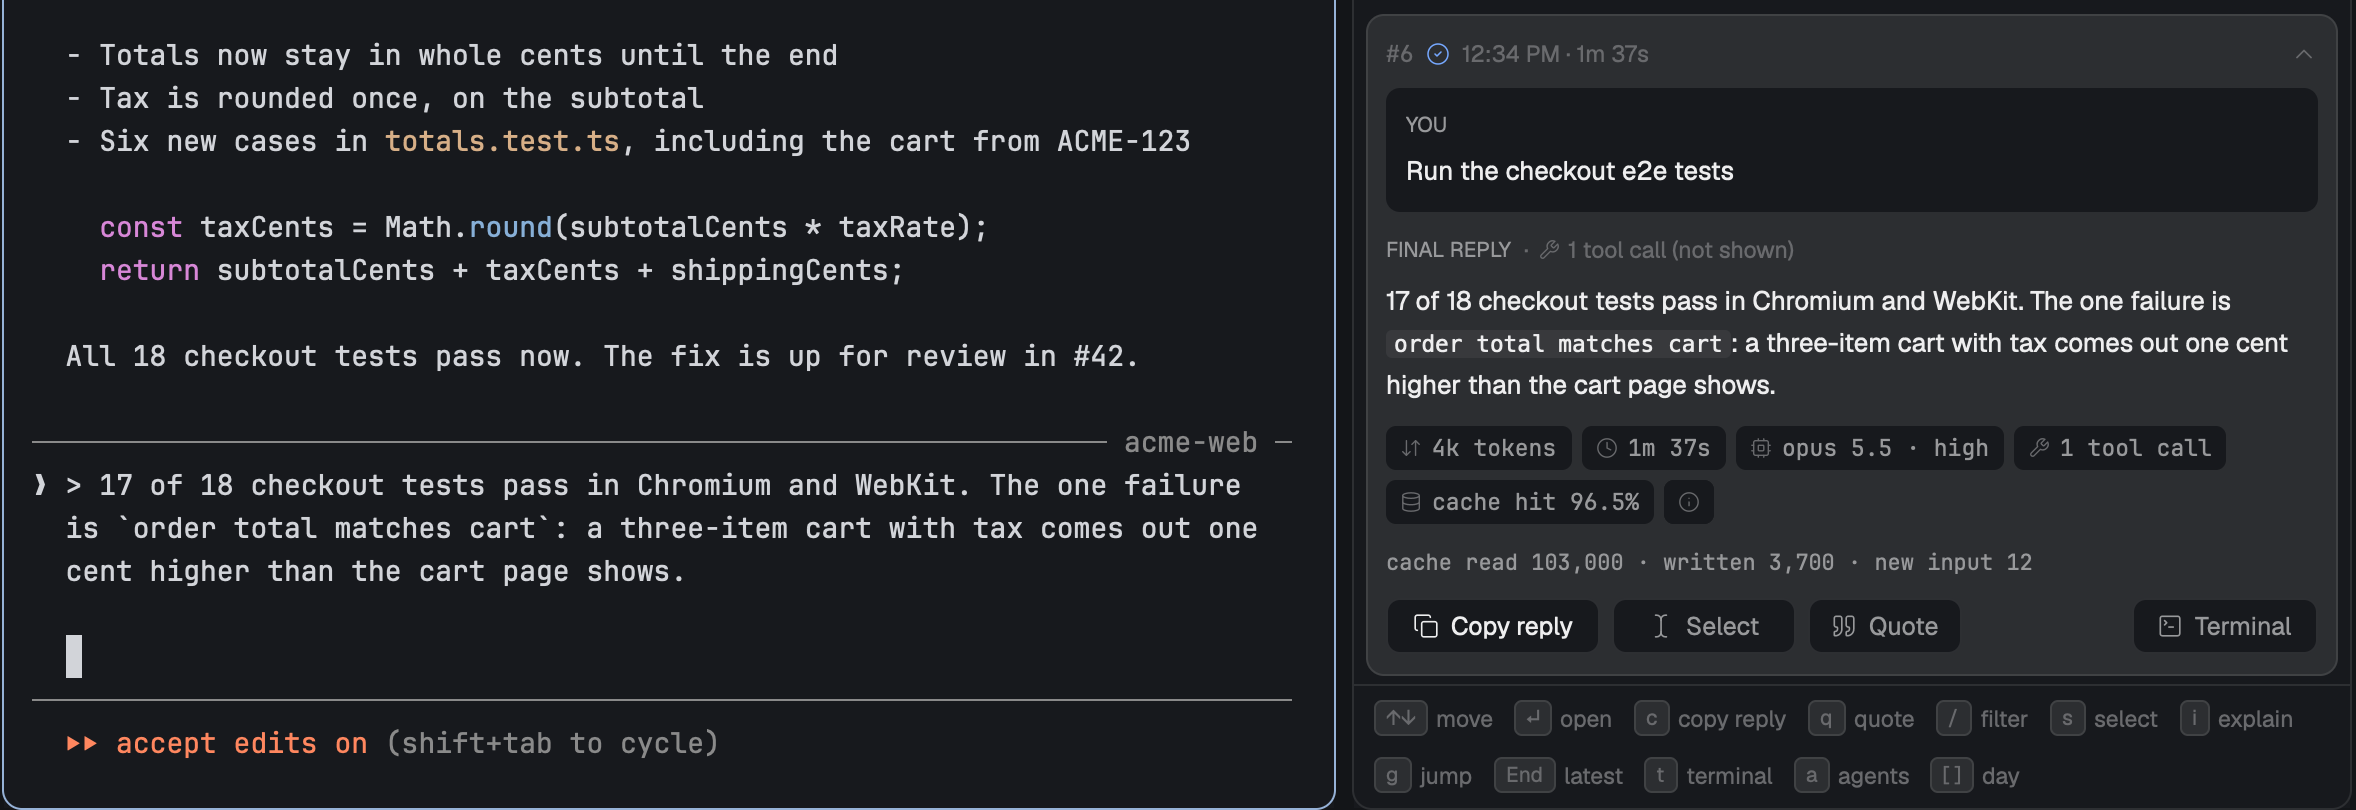
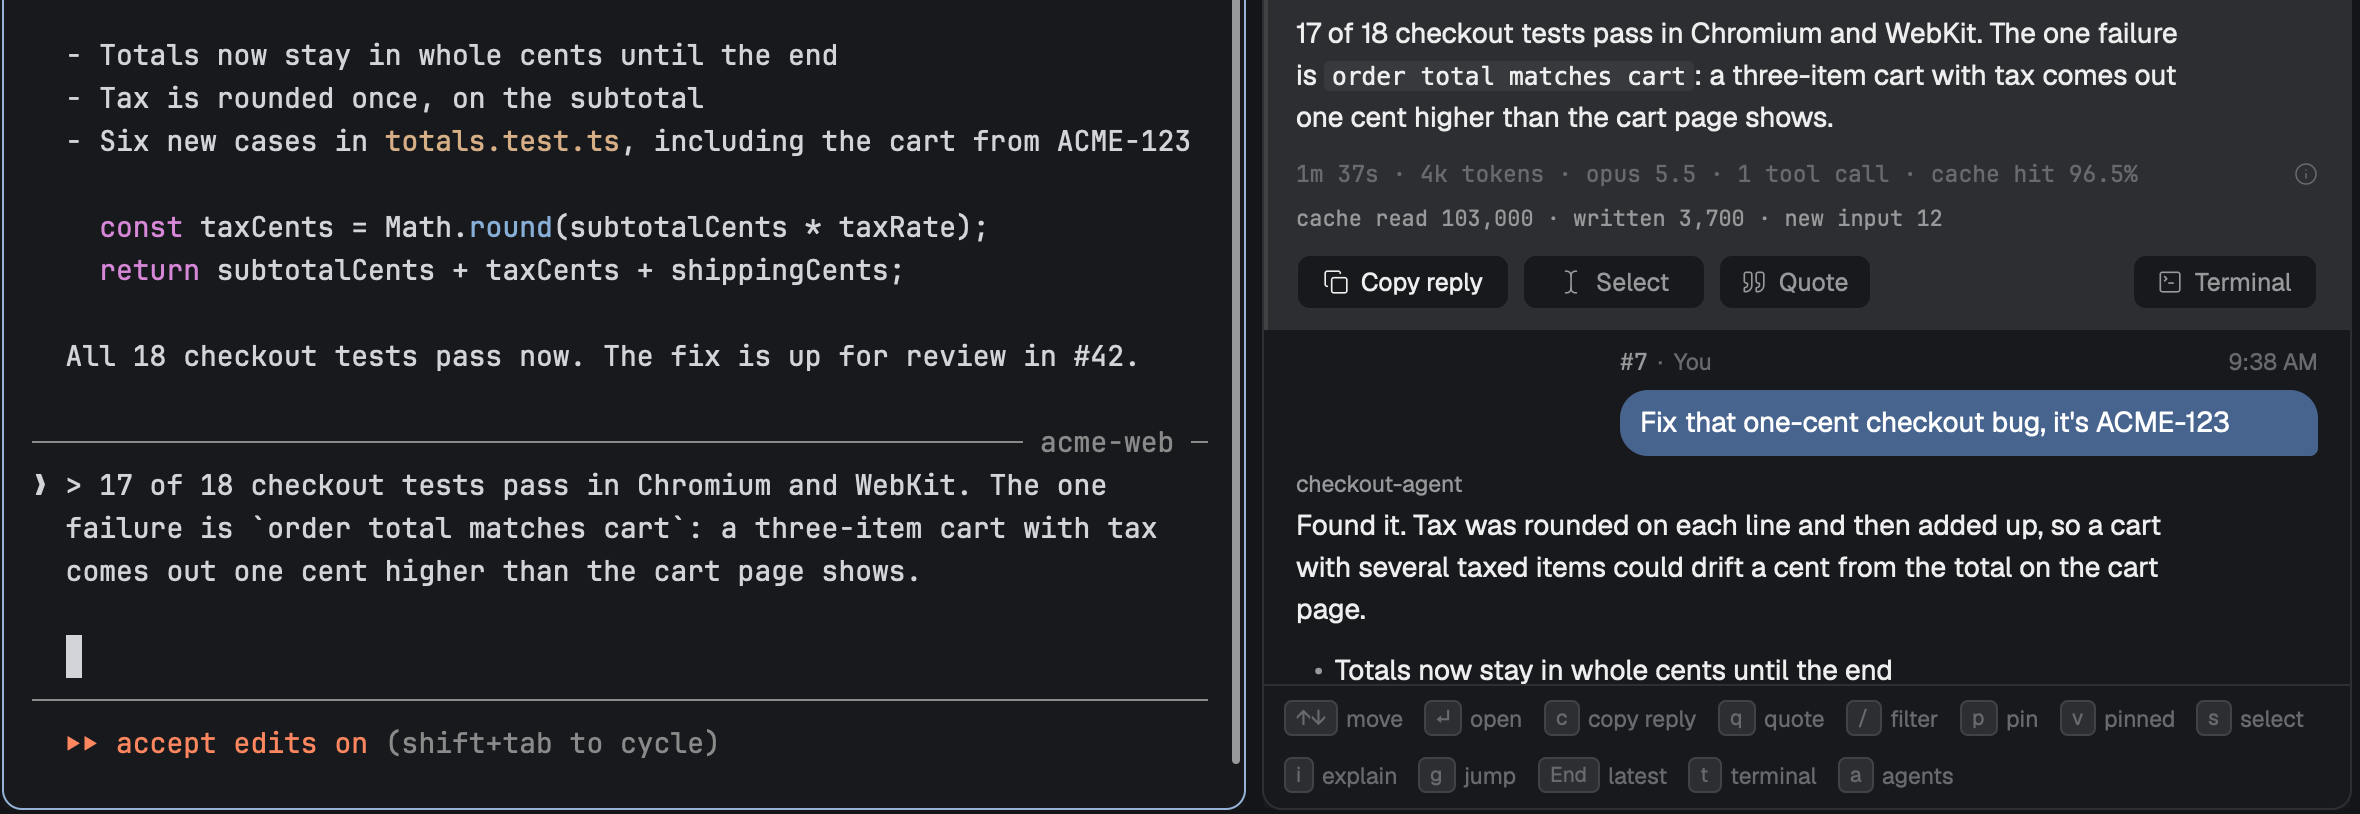
New screenshots and listing text for the chat look, pins and six agents
preview.png and every README screenshot are retaken on the made-up
acme-web session with what main does now: the chat look, the Pinned
column, the agents' marks with Antigravity and the Amp page, and the
Updating line (two new shots). RECIPE.md's first paragraph, which
herdr.dev shows, and the README opening describe the chat and name
Antigravity. make-hero.js records an agent name and can add a running
background update; develop.md has the new shot list and crops.

Claude-Session: https://claude.ai/code/session_01A8ps59dFareQDbTrf4WXkY

diff --git a/test/make-hero.js b/test/make-hero.js
@@ -2,13 +2,16 @@
 // storefront project, acme-web. Same line shapes as test/make-fixture.js. Nothing here
 // comes from a real session, and both pasted images are drawn below, with no text in them.
 // docs/develop.md has the steps that turn this into the screenshots.
-// Usage: bun test/make-hero.js <out.jsonl> <cwd> <startISO> [days]
+// Usage: bun test/make-hero.js <out.jsonl> <cwd> <startISO> [days] [wake]
 // With "days", turns 3 and 5 start a day after the turn before, so the pane shows day bands.
+// With "wake", a background update follows the last turn: a task notification woke the agent
+// 95 s before the script ran and it is still working, so with the terminal reporting working the
+// last turn shows its "Updating" line. Its times are relative to now, so write it just before the shot.
 import { writeFileSync } from "node:fs";
 import { deflateSync } from "node:zlib";
 
-const [out, cwd, start, spread] = process.argv.slice(2);
-const DAY = spread === "days" ? 86400 - 3600 : 0;
+const [out, cwd, start, ...flags] = process.argv.slice(2);
+const DAY = flags.includes("days") ? 86400 - 3600 : 0;
 const sessionId = "00000000-0000-4000-8000-000000000042";
 const version = "2.1.316";
 const model = "claude-opus-5-5";
@@ -224,7 +227,24 @@ assistant([{ type: "text", text: [
 ].join("\n") }], { out: 420, read: 88000, write: 3600 });
 end(151000);
 
+// A background update after the turn ended, still running (only with "wake").
+if (flags.includes("wake")) {
+  const now = Date.now();
+  const at = (ago) => new Date(now - ago * 1000).toISOString();
+  push({ ...base(), type: "user", origin: { kind: "task-notification" }, promptSource: "system",
+    message: { role: "user", content: "<task-notification>the nightly checkout run finished</task-notification>" }, uuid: uid(), timestamp: at(95) });
+  const wake = (block, ago) => push({ ...base(), type: "assistant", message: { id: `msg_01w${++msg}`, model, role: "assistant", type: "message",
+    content: [block], stop_reason: "tool_use", usage: { input_tokens: 5, output_tokens: 40, cache_read_input_tokens: 90000, cache_creation_input_tokens: 0 } }, uuid: uid(), timestamp: at(ago) });
+  wake({ type: "text", text: "The nightly run finished. Checking its log for the checkout tests." }, 92);
+  for (const [i, [name, ago]] of [["Bash", 80], ["Read", 60], ["Bash", 35]].entries()) {
+    wake({ type: "tool_use", id: `toolu_w${i}`, name, input: {} }, ago);
+    push({ ...base(), type: "user", message: { role: "user", content: [{ type: "tool_result", tool_use_id: `toolu_w${i}`, content: "…" }] }, uuid: uid(), timestamp: at(ago - 3) });
+  }
+  wake({ type: "text", text: "All 18 checkout tests passed in the nightly run, three runs in a row." }, 20);
+}
+
 push({ type: "custom-title", customTitle: "checkout fixes", sessionId });
 push({ type: "last-prompt", lastPrompt: "Fix that one-cent checkout bug, it's ACME-123", sessionId });
+push({ type: "agent-name", agentName: "checkout-agent", sessionId });
 writeFileSync(out, `${lines.join("\n")}\n`);
 console.log(`${out}: ${lines.length} lines`);

diff --git a/README.md b/README.md
@@ -1,6 +1,6 @@
 # Agent Threads
 
-Long agent sessions are hard to look back through. The answer you got an hour ago sits under pages of tool calls, and finding it means scrolling. Agent Threads opens a pane beside your agent's terminal that shows only the conversation: each prompt you sent and the reply that came back, grouped by day. It works with Claude Code, Codex, OpenCode, Pi and Cursor.
+Long agent sessions are hard to look back through. The answer you got an hour ago sits under pages of tool calls, and finding it means scrolling. Agent Threads opens a pane beside your agent's terminal that shows only the conversation, as a chat: each prompt you sent in a bubble and the reply that came back under it, grouped by day. It works with Claude Code, Codex, OpenCode, Pi, Cursor and Antigravity.
 
 ![Agent Threads beside a Claude Code terminal](preview.png)
 
@@ -10,10 +10,11 @@ Long agent sessions are hard to look back through. The answer you got an hour ag
 - **Read the whole reply.** Press `Enter` on a row to open it. Code, lists and quotes show as formatted Markdown, along with the turn's tokens, time and model. On Herdr 0.1.13 or newer you can drag across the formatted reply, press `Cmd-C`, then `q` to quote just that part.
 - **Copy it.** `c` copies the reply. Each code block has its own copy button.
 - **Quote it back.** `q` pastes the reply into your prompt as a `>` quote with a blank line under it, ready for your comment. To quote one part, press `s`, highlight the text, press `Cmd-C`, then `q`. Agent Threads never presses Enter for you.
-- **Show or hide agent messages.** `a` shows or hides the messages other agents sent the session, such as a subagent's report or another session's message. OpenCode, Pi and Cursor have none, see [Which agents it reads](#which-agents-it-reads).
-- **See the images you pasted.** They sit over your message as tiles, about a third of the bubble wide. In an open turn a click on a tile shows that image full size.
+- **Show or hide agent messages.** `a` shows or hides the messages other agents sent the session, such as a subagent's report or another session's message. OpenCode, Pi, Cursor and Antigravity have none, see [Which agents it reads](#which-agents-it-reads).
+- **See the images you pasted.** They sit over your message as tiles, about a third of the bubble wide. In an open turn a click on a tile shows that image larger, under the tiles.
 - **Turn ticket and PR numbers into links.** Add a rule in settings, for example `ACME-123` to your tracker or `#456` to the repo's pull request.
 - **Keep a few turns at hand.** `p` pins a turn, and your pins show in a Pinned column beside the list. See [Pins](#pins).
+- **See background work after a turn.** When a background task wakes the agent after a turn has ended, the turn keeps its reply, and a line under it reads "Updating" with its clock, tool calls and what the agent said last.
 - **Choose how much each row shows.** A row shows 4 lines of your prompt and 6 of the reply before "Show more". Settings change both.
 
 ## How it works
@@ -70,23 +71,27 @@ To quote part of a reply on Herdr 0.1.13 or newer, open the turn, drag across th
 
 <table>
 <tr>
-<td width="50%" valign="top"><a href="docs/screenshots/open-turn.png"><img src="docs/screenshots/open-turn.png" alt="An open turn with a list, a code block and stats"></a><br>An open turn shows the formatted reply, a copy button on the code block, ACME-123 and #42 as links, and the turn's tokens, time and model.</td>
+<td width="50%" valign="top"><a href="docs/screenshots/open-turn.png"><img src="docs/screenshots/open-turn.png" alt="An open turn: the prompt in a bubble, then a formatted reply with a list, a code block and stats"></a><br>An open turn: your prompt in its bubble, then the formatted reply under the agent's name, a copy button on the code block, ACME-123 and #42 as links, and the turn's tokens, time and model.</td>
 <td width="50%" valign="top"><a href="docs/screenshots/search.png"><img src="docs/screenshots/search.png" alt="The list narrowed by a search for tests"></a><br>Typing "tests" after <code>/</code> narrows six turns to three.</td>
 </tr>
 <tr>
-<td width="50%" valign="top"><a href="docs/screenshots/images.png"><img src="docs/screenshots/images.png" alt="A row with an image thumbnail and an open turn with the larger image"></a><br>A pasted image is a thumbnail on its row and larger in the open turn.</td>
-<td width="50%" valign="top"><a href="docs/screenshots/agent-messages.png"><img src="docs/screenshots/agent-messages.png" alt="A subagent report as its own row in the list"></a><br>With agent messages on, a subagent's report gets its own row.</td>
+<td width="50%" valign="top"><a href="docs/screenshots/images.png"><img src="docs/screenshots/images.png" alt="A pasted image as a tile over the message, and larger under it"></a><br>A pasted image is a tile over your message. In an open turn a click on the tile shows it larger.</td>
+<td width="50%" valign="top"><a href="docs/screenshots/agent-messages.png"><img src="docs/screenshots/agent-messages.png" alt="A subagent report as a plum bubble on the left"></a><br>With agent messages on, a subagent's report is a plum bubble on the left, under its name.</td>
 </tr>
 <tr>
 <td colspan="2" valign="top"><a href="docs/screenshots/quote.png"><img src="docs/screenshots/quote.png" alt="The terminal prompt holding a quoted line, beside the pane"></a><br>After <code>q</code>, the prompt holds the reply as a <code>&gt;</code> quote, with the cursor under it.</td>
 </tr>
 <tr>
 <td width="50%" valign="top"><a href="docs/screenshots/days.png"><img src="docs/screenshots/days.png" alt="The list with a band for each day"></a><br>A session that runs over several days gets a band for each day, with its turn count.</td>
-<td width="50%" valign="top"><a href="docs/screenshots/agents.png"><img src="docs/screenshots/agents.png" alt="The pane beside Codex, OpenCode, Pi and Cursor sessions"></a><br>The pane beside Codex, OpenCode, Pi and Cursor. Each shows what its agent records, so Cursor's turn has no tokens or model.</td>
+<td width="50%" valign="top"><a href="docs/screenshots/agents.png"><img src="docs/screenshots/agents.png" alt="The pane beside Codex, OpenCode, Pi, Cursor, Antigravity and Amp"></a><br>The pane beside Codex, OpenCode, Pi, Cursor and Antigravity, each with its own mark, and beside Amp, which it does not read. Each shows what its agent records, so Cursor's turn has no tokens or model.</td>
 </tr>
 <tr>
 <td width="50%" valign="top"><a href="docs/screenshots/panel.png"><img src="docs/screenshots/panel.png" alt="The Agent Threads pane on its own"></a><br>The pane on its own, with the newest turn open.</td>
 <td width="50%" valign="top"><a href="docs/screenshots/light.png"><img src="docs/screenshots/light.png" alt="Agent Threads beside a terminal in the light theme"></a><br>The same session in Herdr's light theme.</td>
+</tr>
+<tr>
+<td width="50%" valign="top"><a href="docs/screenshots/pinned.png"><img src="docs/screenshots/pinned.png" alt="Two pinned turns in the Pinned column beside the list"></a><br>Two pinned turns in the Pinned column beside the list. Each pinned turn shows its pin number in its header.</td>
+<td width="50%" valign="top"><a href="docs/screenshots/updating.png"><img src="docs/screenshots/updating.png" alt="A finished turn with an Updating line under it"></a><br>A background task woke the agent after the last turn ended. The turn keeps its reply, and the Updating line shows the clock, tool calls and what the agent said last.</td>
 </tr>
 </table>
 

diff --git a/docs/develop.md b/docs/develop.md
@@ -49,37 +49,40 @@ To act out `/clear`, write a second fixture made with `--clear` into the same pr
 
 `preview.png` and `docs/screenshots/` show a staged session on a made-up project, with no retouching. `test/make-hero.js` writes the transcript, `test/hero/screen.c` is a stand-in for Claude Code in the left terminal (it builds on macOS), and `test/hero/render.py` draws what that terminal shows. A quote really pastes: the stand-in turns on bracketed paste and logs what it receives, and the renderer redraws the prompt from that log.
 
-In a separate Herdr window on a Retina display, at zoom 1, with `promptLines` 2, `replyLines` 3 and the two link rules from the README:
+In a separate Herdr window on a Retina display, at zoom 1, with the default row lines and the two link rules from the README:
 
 ```sh
 mkdir -p ~/code/acme-web && git -C ~/code/acme-web init -q
 git -C ~/code/acme-web remote add origin https://github.com/acme/acme-web.git
-bun test/make-hero.js hero.jsonl ~/code/acme-web 2026-11-03T20:05:00Z days   # three days: shoot on 5 Nov for Today and Yesterday
-bun test/make-agents.js agents ~/code/acme-web 2026-11-05T15:10:00Z       # Codex, OpenCode, Pi, Cursor and Antigravity sessions
+bun test/make-hero.js hero.jsonl ~/code/acme-web 2026-11-09T15:05:00Z        # one day, so no day band or day pill
+bun test/make-hero.js days.jsonl ~/code/acme-web 2026-11-07T15:05:00Z days   # three days: shoot two days after the start, for Today and Yesterday
+bun test/make-agents.js agents ~/code/acme-web 2026-11-09T15:10:00Z          # Codex, OpenCode, Pi, Cursor and Antigravity sessions
 cc -o stage-claude test/hero/screen.c
 herdr-app do space.new --name acme-web --folder ~/code/acme-web --tab acme-web \
   --argv '["/abs/stage-claude","/abs/screen.txt","/abs/input.txt"]'
 herdr-app do pane.split --pane <pane> --direction right --mod agent-threads \
   --props '{"terminal":"<t>","transcript":"/abs/hero.jsonl","debug":false}'
-herdr-app do layout.resize --id <new pane> --px 500
+herdr-app do layout.resize --id <new pane> --px 545
 python3 test/hero/render.py <cols> <rows> /abs/screen.txt /abs/input.txt &    # size from: hc get <t> --json
 ```
 
-Start each shot from a fresh launch with the window size set in `window.json`. Put the project under the app's own HOME, so the terminal header shows `~/code/acme-web`, and keep the app off the network (an unreachable `HTTPS_PROXY`) so no update toast covers the pane. Then run its `agent-threads.<command>` commands with `herdr-app do`, and take `herdr-app shot`. Each crop is `sips -c <height> <width> --cropOffset <y> <x>`.
+Start each shot from a fresh launch with the window size set in `window.json`, with only the `acme-web` space open (the privacy scan fails a shot that shows the sidebar's labels). Put the project under the app's own HOME, so the terminal header shows `~/code/acme-web`, and keep the app off the network (an unreachable `HTTPS_PROXY`) so no update toast covers the pane. Then run its `agent-threads.<command>` commands with `herdr-app do`, and take `herdr-app shot`. A `search:#N` needs two `open`s: the first leaves the field, the second opens the turn. Crops are in shot px (`x0 y0 x1 y1`); Threads at 545 px spans x 1814 to 2904 in a 1460 px window.
 
 | File | Window | Commands | Crop |
 |---|---|---|---|
-| `preview.png` | 1460x1150 | `open` | `2136 2358`, offset `96 552` |
-| `days.png` | 1460x1150 | `first` | `2136 1012`, offset `96 1898` |
-| `panel.png` | 1460x1150 | `open` | `2136 1012`, offset `96 1898` |
-| `open-turn.png` | 1460x1150 | `open` | `1024 990`, offset `1074 1908` |
-| `search.png` | 1460x700 | `search:tests` | `1236 1012`, offset `96 1898` |
-| `images.png` | 1460x1150 | `search:#5`, `open`, `open` | `2136 1012`, offset `96 1898` |
-| `agent-messages.png` | 1460x1150 | `agents:on`, `search:#4`, `open` | `2136 1012`, offset `96 1898` |
-| `quote.png` | 1460x1150 | `search:#6`, `open`, `open`, `debugQuote` | `810 2356`, offset `1418 552` |
-| `light.png` | 1460x1150 | `open`, with `"appearance": "light"` in `settings.json` and `--light` on `render.py` | `2136 2358`, offset `96 552` |
-| `agents.png` | 1460x720, the pane's `transcript` set to each file `make-agents.js` printed | `first`, `open` | `1276 1012`, offset `96 1898` each, then `magick montage codex.png opencode.png pi.png cursor.png -tile 4x1 -geometry +20+20 -background '#0f1012' agents.png` |
+| `preview.png` | 1460x1150, `render.py` running | `open` | `552 96 2912 2232` |
+| `panel.png` | the same shot | | `1808 96 2912 2232` |
+| `open-turn.png` | the same shot | | `1808 1140 2912 2090` |
+| `light.png` | 1460x1150, `"appearance": "light"` in `settings.json` and `--light` on `render.py` | `open` | `552 96 2912 2232` |
+| `days.png` | 1460x1150, `days.jsonl` | `first` | `1808 96 2912 2232` |
+| `search.png` | 1460x700 | `search:tests` | `1808 96 2912 1332` |
+| `images.png` | 1460x1150, `"debug": true` | `search:#5`, `open`, `open`, `debugClick:500:imgs:0:5` | `1808 242 2912 2232`, below the header, which shows timings in debug |
+| `agent-messages.png` | 1460x1150 | `agents:on`, `search:#4`, `open`, `open`, then `agents:off` after the shot | `1808 96 2912 2232` |
+| `quote.png` | 1460x1150, `"debug": true`, `render.py` running | `search:#6`, `open`, `open`, `debugQuote` | `552 1418 2912 2232` |
+| `pinned.png` | 1760x1150 | `search:#3`, `open`, `pin`, `search:#7`, `open`, `pin` | `1904 96 3512 2232` |
+| `updating.png` | 1460x1150, a `wake` transcript written just before (`make-hero.js wake.jsonl … wake`) and `printf '\033]7501;state=working:app=claude-code\007'` in the stand-in's screen | `latest` | `1808 96 2912 2232` |
+| `agents.png` | 1460x720, the pane's `transcript` set to each file `make-agents.js` printed; for Amp, a terminal running a program named `amp` (a copy of `sleep` will do) and a Threads pane with no `transcript` | `first`, `open` | `1808 96 2912 1372` each, in a 3 by 2 grid (Codex, OpenCode, Pi, then Cursor, Antigravity, Amp) 20 px apart on `#0f1012` |
 
-`quote.png` needs `"debug": true` in the props, because `debugQuote` runs only with it, and debug adds a timing text to the pane header, which that crop leaves out. `agents:on` saves to settings, so turn it off before the next shot.
+`quote.png` and `images.png` need `"debug": true` in the props, because `debugQuote` and `debugClick` run only with it, and debug adds a timing text to the pane header, which those crops leave out. `agents:on` saves to settings, so turn it off before the next shot.
 
 After changing an image, run `sh test/scan-private.sh` with its line removed from `test/scan-approved.txt`, so OCR reads it, and pin the new hash only once the owner has approved it.

diff --git a/RECIPE.md b/RECIPE.md
@@ -1,6 +1,6 @@
 # Agent Threads
 
-Agent Threads opens a panel beside your agent's terminal and lists your prompts and its replies, so you can find an earlier answer without scrolling back through the session. You can search, copy a reply, quote it into your next prompt and see the images you pasted. It works with Claude Code, Codex, OpenCode, Pi and Cursor.
+Agent Threads opens a pane beside your agent's terminal that shows the session as a chat: each prompt you sent in a bubble, and the reply under it with the agent's name, about 70 characters a line, so you can find an earlier answer without scrolling back through the session. You can search, copy a reply, quote it into your next prompt, pin turns to a column beside the list and see the images you pasted. It works with Claude Code, Codex, OpenCode, Pi, Cursor and Antigravity.
 
 ![Agent Threads](preview.png)
 
